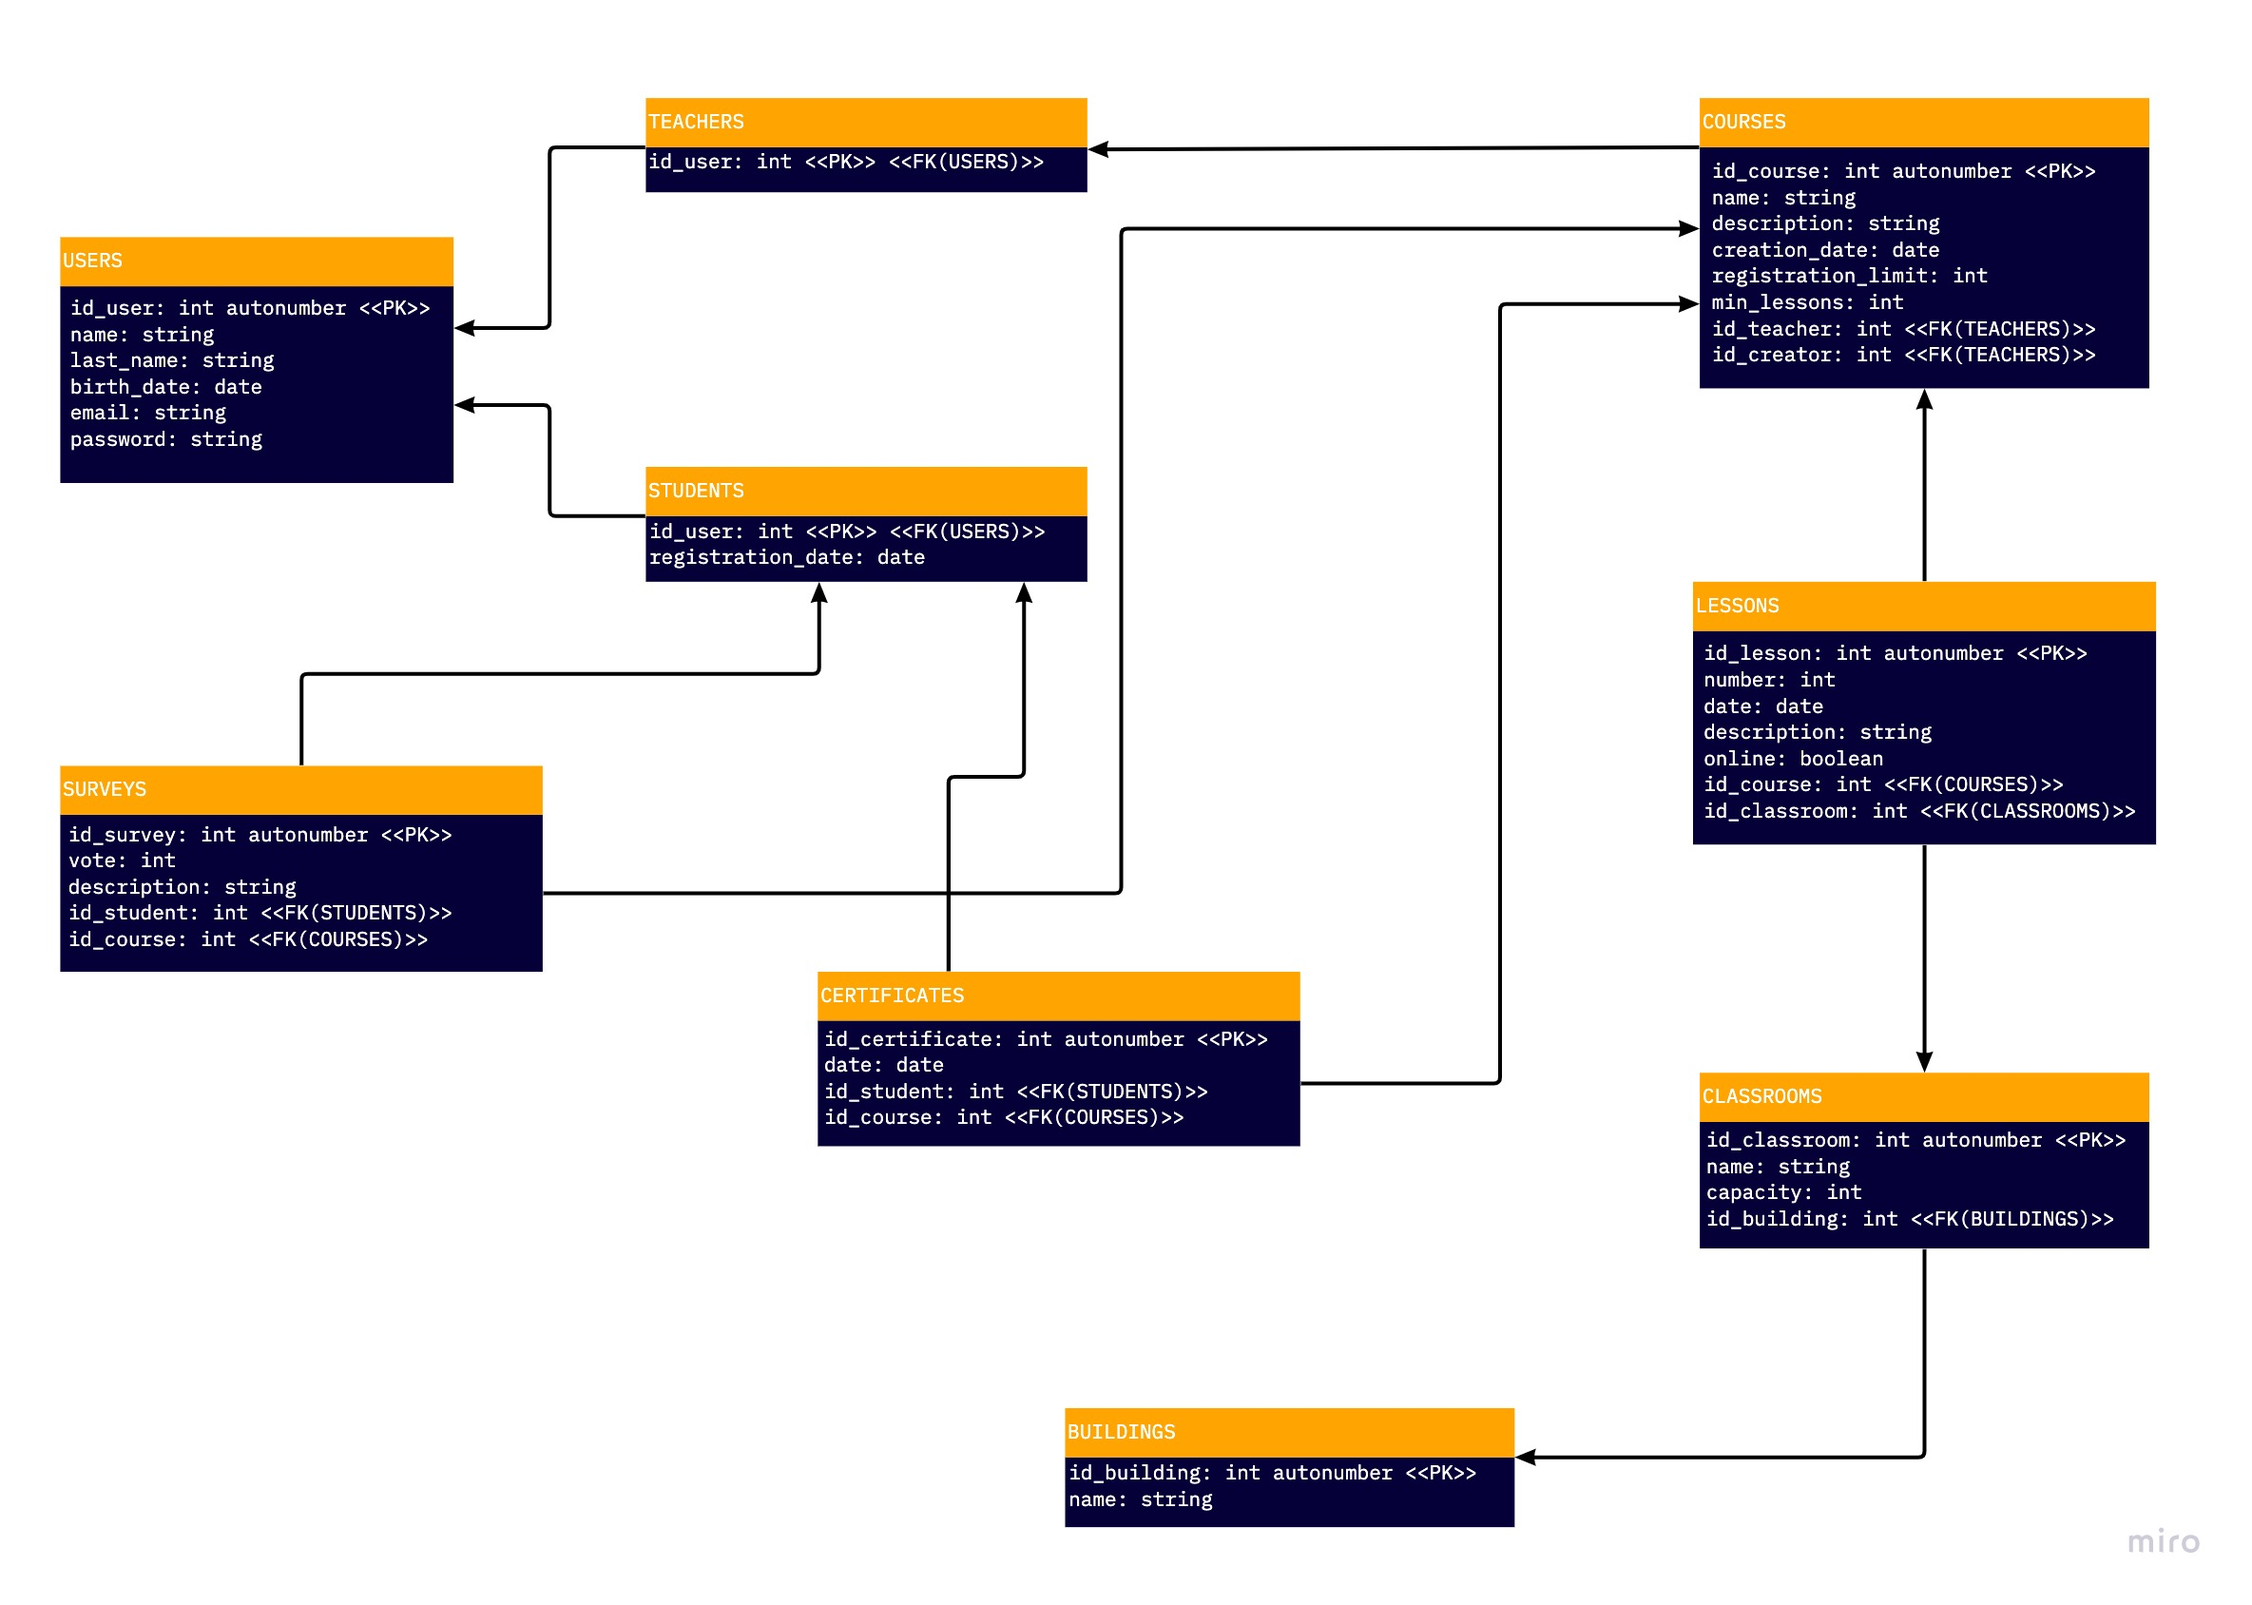
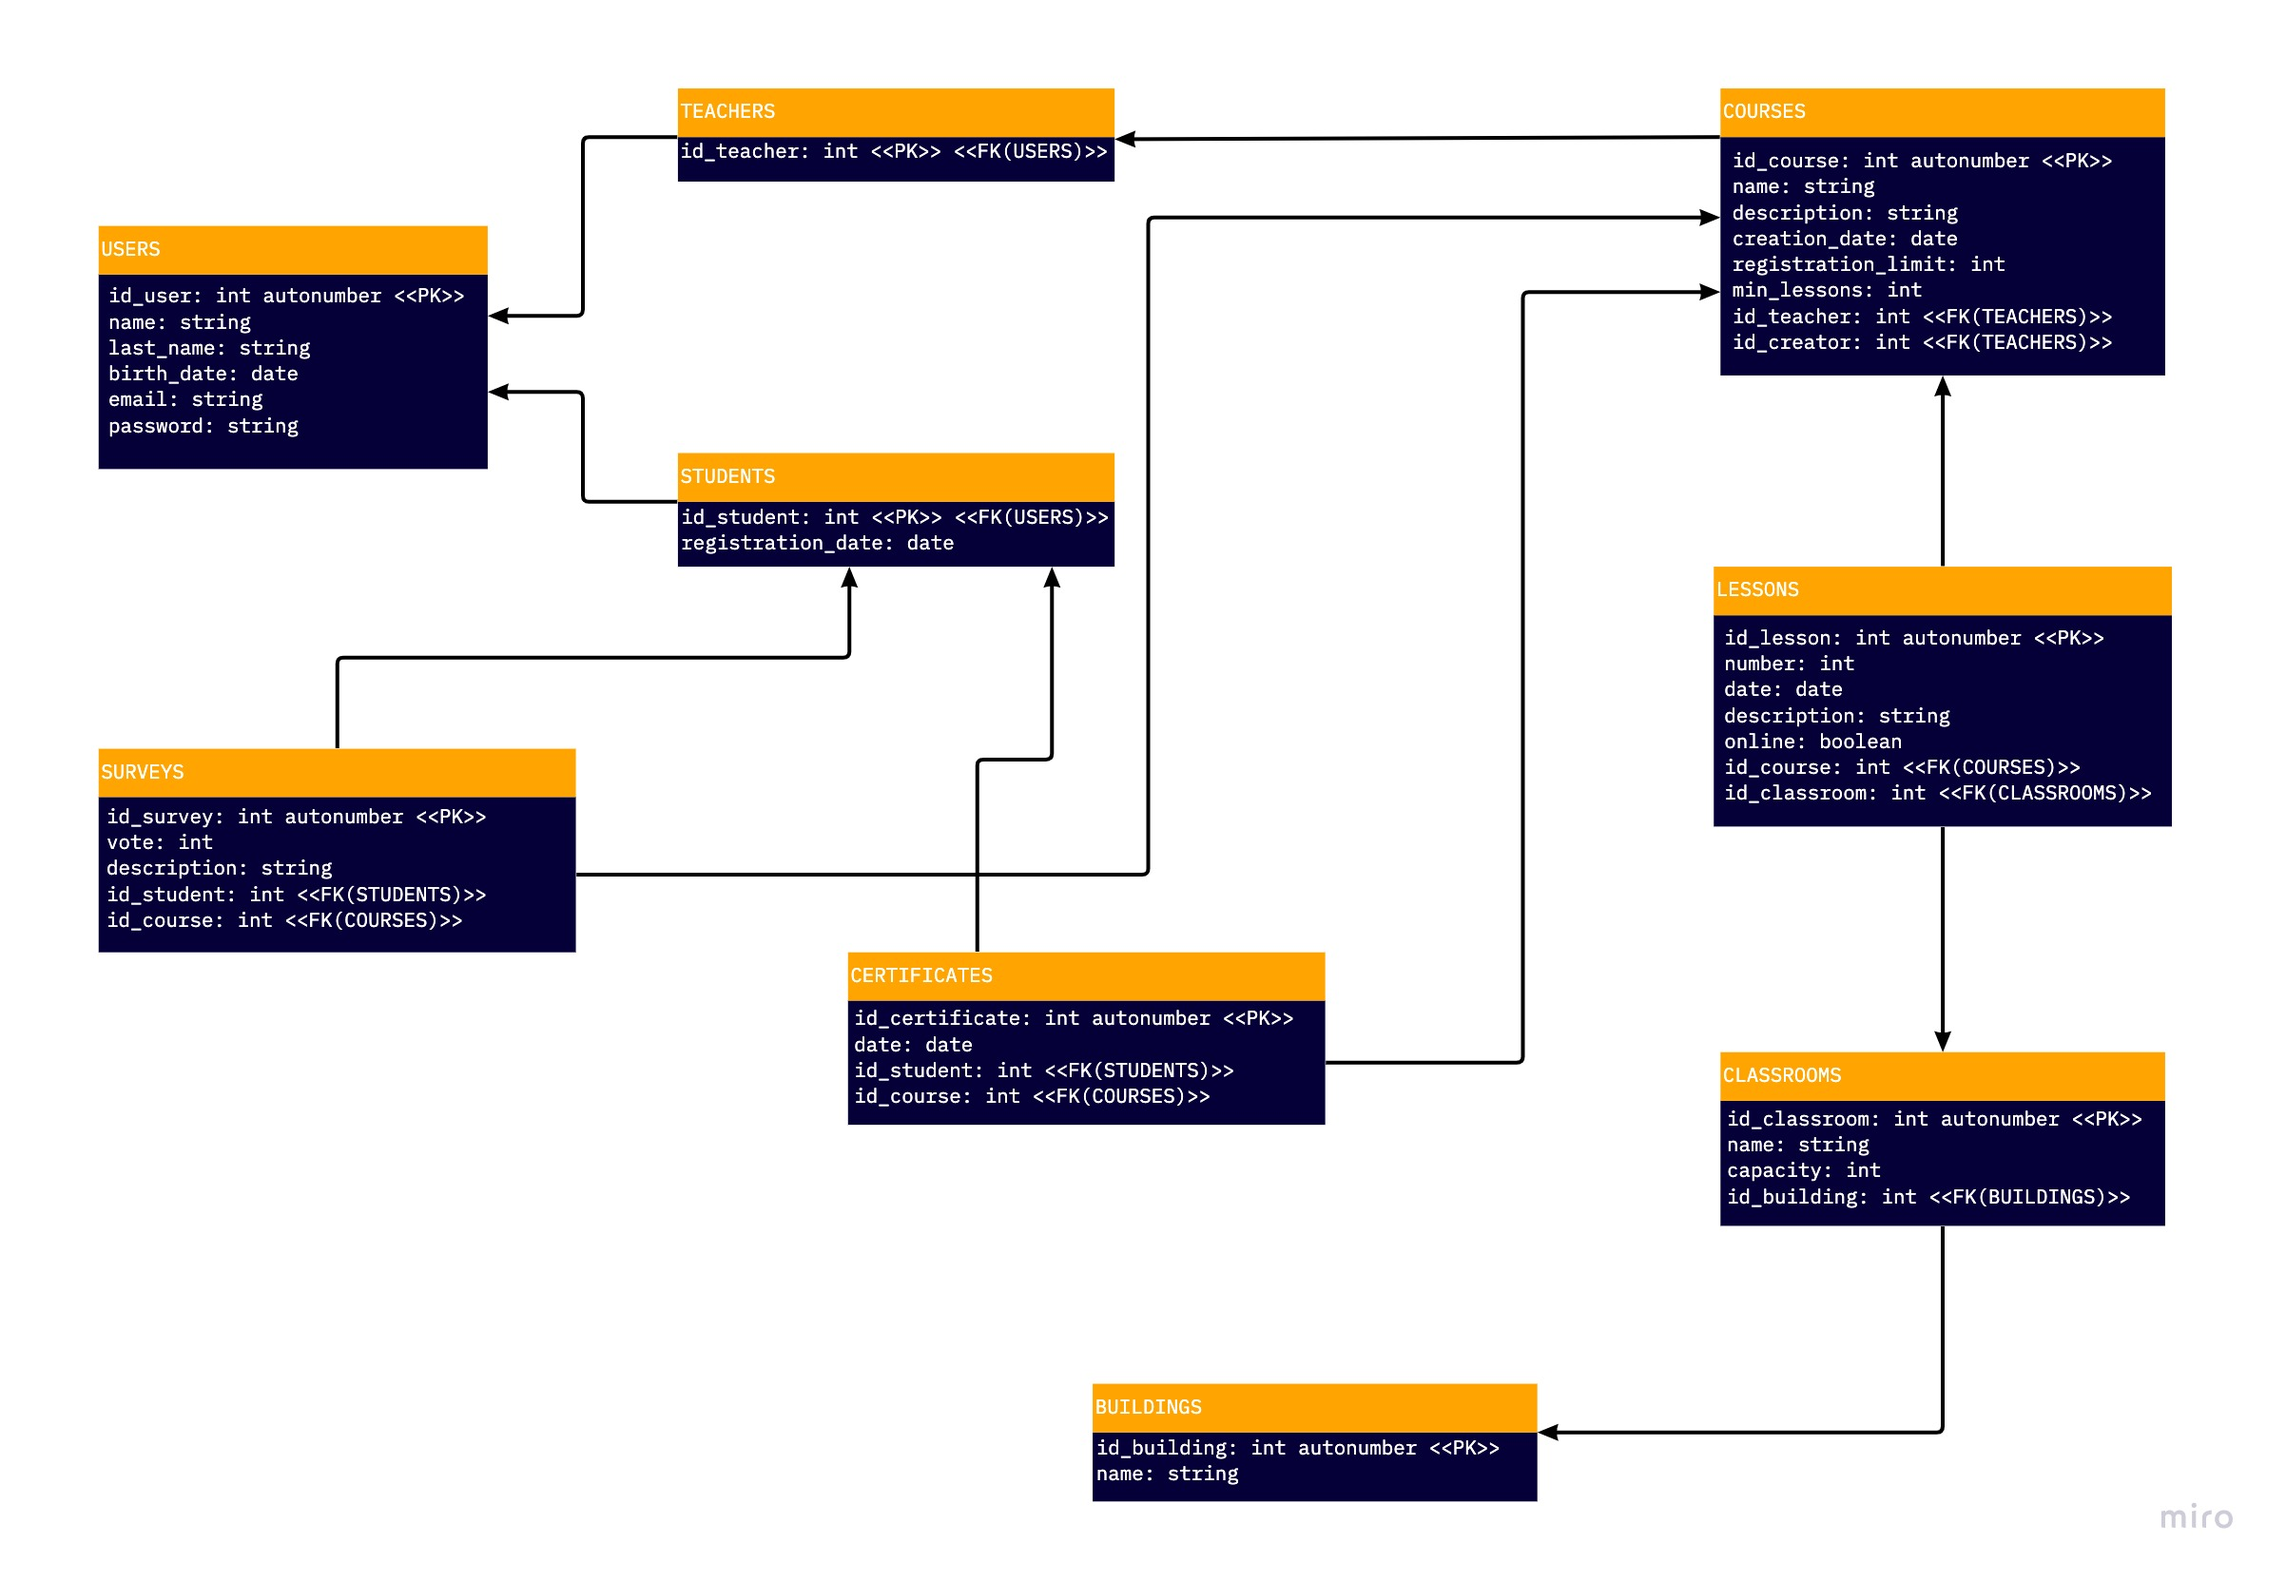
Update documentation
- Added integrity checks while creating tables
- Updated students' and teachers' primary keys

Changed region(s): [[0.2499, 0.0307, 0.9683, 0.9507], [0.0, 0.276, 0.656, 0.7054], [0.0, 0.1227, 0.2499, 0.3067]]

diff --git a/docs/html/pcto_webapp_plan.html b/docs/html/pcto_webapp_plan.html
@@ -2,7 +2,7 @@
 <html lang="en">
 <head>
 <title>PCTO Webapp Plan</title>
-<!-- 2022-04-19 Tue 18:15 -->
+<!-- 2022-04-20 Wed 10:23 -->
 <meta charset="utf-8">
 <meta name="viewport" content="width=device-width, initial-scale=1">
 <meta name="generator" content="Org-mode">
@@ -207,6 +207,11 @@ $(function() {
 </li>
 <li><a href="#sec-5">5. Schema concettuale</a></li>
 <li><a href="#sec-6">6. Schema relazionale</a></li>
+<li><a href="#sec-7">7. Progettazione vincoli di integrità</a>
+<ul class="nav">
+<li><a href="#sec-7-1">7.1. CHECKS nella creazione delle tabelle</a></li>
+</ul>
+</li>
 </ul>
 </div>
 </nav>
@@ -489,10 +494,107 @@ $(function() {
 </figure>
 </div>
 </div>
+
+<div id="outline-container-sec-7" class="outline-2">
+<h2 id="sec-7"><span class="section-number-2">7</span> Progettazione vincoli di integrità</h2>
+<div class="outline-text-2" id="text-7">
+</div>
+
+<div id="outline-container-sec-7-1" class="outline-3">
+<h3 id="sec-7-1"><span class="section-number-3">7.1</span> CHECKS nella creazione delle tabelle</h3>
+<div class="outline-text-3" id="text-7-1">
+<div class="org-src-container">
+
+<pre class="src src-sql">    <span style="color: #a89984;">-- </span><span style="color: #a89984;">tabella utenti</span>
+    <span style="color: #9d0006;">CREATE</span> <span style="color: #9d0006;">TABLE</span> <span style="color: #b57614;">users</span> (
+        id_user <span style="color: #8f3f71;">INT</span> AUTO_INCREMENT,
+        first_name <span style="color: #8f3f71;">VARCHAR</span>(<span style="color: #8f3f71; font-weight: bold;">20</span>) <span style="color: #9d0006;">NOT</span> <span style="color: #9d0006;">NULL</span>,
+        last_name <span style="color: #8f3f71;">VARCHAR</span>(<span style="color: #8f3f71; font-weight: bold;">20</span>) <span style="color: #9d0006;">NOT</span> <span style="color: #9d0006;">NULL</span>,
+        birth_date <span style="color: #8f3f71;">DATE</span> <span style="color: #9d0006;">NOT</span> <span style="color: #9d0006;">NULL</span>,
+        email <span style="color: #8f3f71;">VARCHAR</span>(<span style="color: #8f3f71; font-weight: bold;">30</span>) <span style="color: #9d0006;">NOT</span> <span style="color: #9d0006;">NULL</span>,
+        password <span style="color: #8f3f71;">VARCHAR</span>(<span style="color: #8f3f71; font-weight: bold;">15</span>) <span style="color: #9d0006;">NOT</span> <span style="color: #9d0006;">NULL</span>
+        <span style="color: #9d0006;">PRIMARY</span> <span style="color: #9d0006;">KEY</span>(id_user),
+    );
+
+    <span style="color: #a89984;">-- </span><span style="color: #a89984;">tabella docenti</span>
+    <span style="color: #9d0006;">CREATE</span> <span style="color: #9d0006;">TABLE</span> <span style="color: #b57614;">teachers</span> (
+        id_teacher <span style="color: #8f3f71;">INT</span>,
+        <span style="color: #9d0006;">PRIMARY</span> <span style="color: #9d0006;">KEY</span>(id_teacher),
+        <span style="color: #9d0006;">FOREIGN</span> <span style="color: #9d0006;">KEY</span>(id_teacher) <span style="color: #9d0006;">REFERENCES</span> users(id_user)
+    );
+
+    <span style="color: #a89984;">-- </span><span style="color: #a89984;">tabella studenti</span>
+    <span style="color: #9d0006;">CREATE</span> <span style="color: #9d0006;">TABLE</span> <span style="color: #b57614;">students</span> (
+        id_student <span style="color: #8f3f71;">INT</span>,
+        registration_date <span style="color: #8f3f71;">DATE</span> <span style="color: #9d0006;">NOT</span> <span style="color: #9d0006;">NULL</span>
+        <span style="color: #9d0006;">PRIMARY</span> <span style="color: #9d0006;">KEY</span>(id_student),
+        <span style="color: #9d0006;">FOREIGN</span> <span style="color: #9d0006;">KEY</span>(id_student) <span style="color: #9d0006;">REFERENCES</span> users(id_user)
+    );
+
+    <span style="color: #a89984;">-- </span><span style="color: #a89984;">tabella corsi</span>
+    <span style="color: #9d0006;">CREATE</span> <span style="color: #9d0006;">TABLE</span> <span style="color: #b57614;">courses</span> (
+        id_course <span style="color: #8f3f71;">INT</span> AUTO_INCREMENT,
+        c_name <span style="color: #8f3f71;">VARCHAR</span>(<span style="color: #8f3f71; font-weight: bold;">30</span>) <span style="color: #9d0006;">NOT</span> <span style="color: #9d0006;">NULL</span>,
+        description <span style="color: #8f3f71;">VARCHAR</span>(<span style="color: #8f3f71; font-weight: bold;">100</span>),
+        creation_date <span style="color: #8f3f71;">DATE</span> <span style="color: #9d0006;">NOT</span> <span style="color: #9d0006;">NULL</span>,
+        registration_limit <span style="color: #8f3f71;">INT</span> <span style="color: #9d0006;">CHECK</span>(registration_limit &gt;= <span style="color: #8f3f71; font-weight: bold;">0</span>),
+        min_lessons <span style="color: #8f3f71;">INT</span> <span style="color: #9d0006;">CHECK</span>(min_lessons &gt;= <span style="color: #8f3f71; font-weight: bold;">0</span>),
+        id_teacher <span style="color: #8f3f71;">INT</span> <span style="color: #9d0006;">NOT</span> <span style="color: #9d0006;">NULL</span>,
+        id_creator <span style="color: #8f3f71;">INT</span> <span style="color: #9d0006;">NOT</span> <span style="color: #9d0006;">NULL</span>,
+        <span style="color: #9d0006;">PRIMARY</span> <span style="color: #9d0006;">KEY</span>(id_course),
+        <span style="color: #9d0006;">FOREIGN</span> <span style="color: #9d0006;">KEY</span>(id_creator) <span style="color: #9d0006;">REFERENCES</span> teachers(id_teacher),
+        <span style="color: #9d0006;">FOREIGN</span> <span style="color: #9d0006;">KEY</span>(id_teacher) <span style="color: #9d0006;">REFERENCES</span> teachers(id_teacher)
+    );
+
+    <span style="color: #a89984;">-- </span><span style="color: #a89984;">tabella edifici</span>
+    <span style="color: #9d0006;">CREATE</span> <span style="color: #9d0006;">TABLE</span> <span style="color: #b57614;">buildings</span> (
+        id_building <span style="color: #8f3f71;">INT</span> AUTO_INCREMENT,
+        b_name <span style="color: #8f3f71;">VARCHAR</span>(<span style="color: #8f3f71; font-weight: bold;">15</span>) <span style="color: #9d0006;">NOT</span> <span style="color: #9d0006;">NULL</span>,
+        <span style="color: #9d0006;">PRIMARY</span> <span style="color: #9d0006;">KEY</span>(id_building)
+    );
+
+    <span style="color: #a89984;">-- </span><span style="color: #a89984;">tabella aule</span>
+    <span style="color: #9d0006;">CREATE</span> <span style="color: #9d0006;">TABLE</span> <span style="color: #b57614;">classrooms</span> (
+        id_classroom <span style="color: #8f3f71;">INT</span> AUTO_INCREMENT,
+        c_name <span style="color: #8f3f71;">VARCHAR</span>(<span style="color: #8f3f71; font-weight: bold;">15</span>) <span style="color: #9d0006;">NOT</span> <span style="color: #9d0006;">NULL</span>,
+        capacity <span style="color: #8f3f71;">INT</span> <span style="color: #9d0006;">NOT</span> <span style="color: #9d0006;">NULL</span> <span style="color: #9d0006;">CHECK</span>(capacity &gt; <span style="color: #8f3f71; font-weight: bold;">0</span>),
+        id_building <span style="color: #8f3f71;">INT</span> <span style="color: #9d0006;">NOT</span> <span style="color: #9d0006;">NULL</span>,
+        <span style="color: #9d0006;">PRIMARY</span> <span style="color: #9d0006;">KEY</span>(id_classroom),
+        <span style="color: #9d0006;">FOREIGN</span> <span style="color: #9d0006;">KEY</span>(id_building) <span style="color: #9d0006;">REFERENCES</span> buildings(id_building)
+    );
+
+    <span style="color: #a89984;">-- </span><span style="color: #a89984;">tabella attestati</span>
+    <span style="color: #9d0006;">CREATE</span> <span style="color: #9d0006;">TABLE</span> <span style="color: #b57614;">certificates</span> (
+        id_certificate <span style="color: #8f3f71;">INT</span> AUTO_INCREMENT,
+        cartification_date <span style="color: #8f3f71;">DATE</span> <span style="color: #9d0006;">NOT</span> <span style="color: #9d0006;">NULL</span>,
+        id_student <span style="color: #8f3f71;">INT</span> <span style="color: #9d0006;">NOT</span> <span style="color: #9d0006;">NULL</span>,
+        id_course <span style="color: #8f3f71;">INT</span> <span style="color: #9d0006;">NOT</span> <span style="color: #9d0006;">NULL</span>,
+        <span style="color: #9d0006;">PRIMARY</span> <span style="color: #9d0006;">KEY</span>(id_certificate),
+        <span style="color: #9d0006;">FOREIGN</span> <span style="color: #9d0006;">KEY</span>(id_student) <span style="color: #9d0006;">REFERENCES</span> students(id_student),
+        <span style="color: #9d0006;">FOREIGN</span> <span style="color: #9d0006;">KEY</span>(id_course) <span style="color: #9d0006;">REFERENCES</span> courses(id_course),
+    );
+
+    <span style="color: #a89984;">-- </span><span style="color: #a89984;">tabella sondaggi</span>
+    <span style="color: #9d0006;">CREATE</span> <span style="color: #9d0006;">TABLE</span> <span style="color: #b57614;">surveys</span> (
+        id_survey <span style="color: #8f3f71;">INT</span> AUTO_INCREMENT,
+        vote <span style="color: #8f3f71;">INT</span> <span style="color: #9d0006;">NOT</span> <span style="color: #9d0006;">NULL</span> <span style="color: #9d0006;">CHECK</span>(vote &gt;= <span style="color: #8f3f71; font-weight: bold;">0</span> <span style="color: #9d0006;">AND</span> vote &lt;= <span style="color: #8f3f71; font-weight: bold;">5</span>),
+        description <span style="color: #8f3f71;">VARCHAR</span>(<span style="color: #8f3f71; font-weight: bold;">100</span>),
+        id_student <span style="color: #8f3f71;">INT</span> <span style="color: #9d0006;">NOT</span> <span style="color: #9d0006;">NULL</span>,
+        id_course <span style="color: #8f3f71;">INT</span> <span style="color: #9d0006;">NOT</span> <span style="color: #9d0006;">NULL</span>,
+        <span style="color: #9d0006;">PRIMARY</span> <span style="color: #9d0006;">KEY</span>(id_certificate),
+        <span style="color: #9d0006;">FOREIGN</span> <span style="color: #9d0006;">KEY</span>(id_student) <span style="color: #9d0006;">REFERENCES</span> students(id_student),
+        <span style="color: #9d0006;">FOREIGN</span> <span style="color: #9d0006;">KEY</span>(id_course) <span style="color: #9d0006;">REFERENCES</span> courses(id_course),
+    );
+
+</pre>
+</div>
+</div>
+</div>
+</div>
 </div></div></div>
 <footer id="postamble" class="">
 <div><p class="author">Author: Pietro Visconti</p>
-<p class="date">Created: 2022-04-19 Tue 18:15</p>
+<p class="date">Created: 2022-04-20 Wed 10:23</p>
 <p class="creator"><a href="http://www.gnu.org/software/emacs/">Emacs</a> 28.0.91 (<a href="http://orgmode.org">Org-mode</a> 9.6)</p>
 </div>
 </footer>
